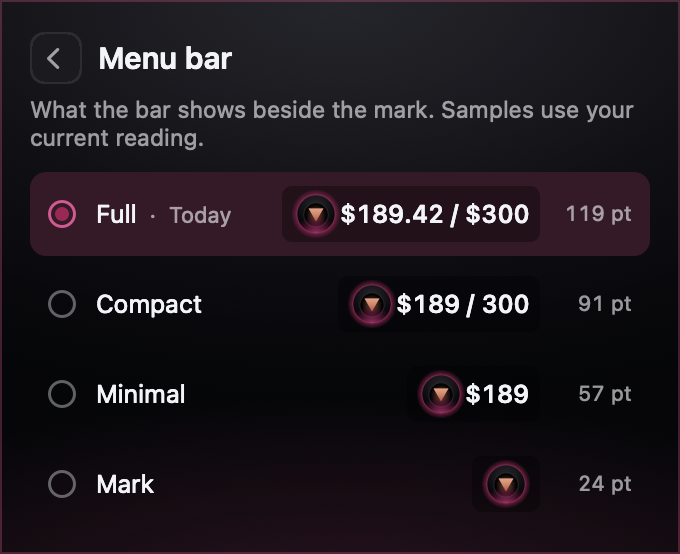
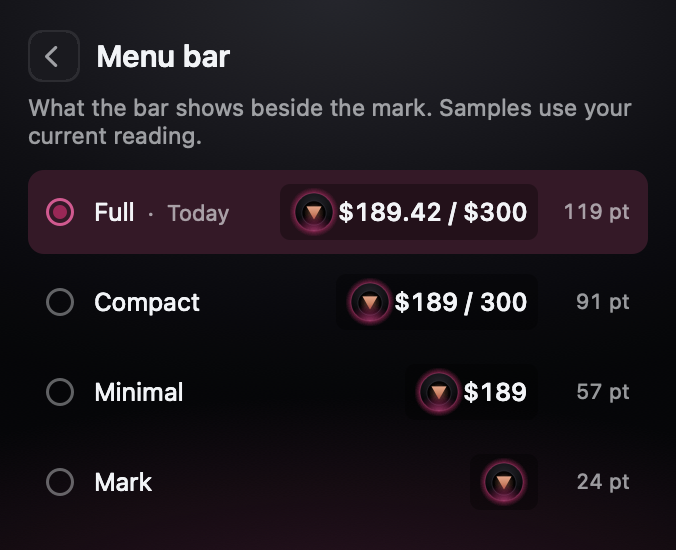
fix(page): trim the square border baked into the screenshots
The renders carried a square magenta rim that the page's rounded frame cut
at each corner, beside its own ring. Shaved 2 px from each side so only the
page's rounded ring remains.

diff --git a/index.html b/index.html
@@ -296,7 +296,7 @@
   <div class="shots">
     <div class="shot">
       <figure>
-        <img src="popover@2x.png?v=3.0.0" width="680" height="1092" loading="lazy"
+        <img src="popover@2x.png?v=3.0.0a" width="676" height="1088" loading="lazy"
              alt="The panel on a subscription: an organisation picker, then Session 54%,
                   Weekly 28% and Weekly Fable 30%, each with a meter and a reset time,
                   then the Sessions list at API value.">
@@ -307,7 +307,7 @@
     </div>
     <div class="shot">
       <figure>
-        <img src="ledger@2x.png?v=3.0.0" width="680" height="1440" loading="lazy"
+        <img src="ledger@2x.png?v=3.0.0a" width="676" height="1436" loading="lazy"
              alt="The panel on a spend limit: $189.42 of $300, $110.58 left this cycle,
                   63% used, a tape of the five most recent charges, and the Sessions list.">
         <figcaption><b>On a spend limit.</b> What you have run up this cycle, what
@@ -324,7 +324,7 @@
   <div class="sessions">
     <div class="shot">
       <figure>
-        <img src="sessions@2x.png?v=3.0.0" width="680" height="1212" loading="lazy"
+        <img src="sessions@2x.png?v=3.0.0a" width="676" height="1208" loading="lazy"
              alt="The Sessions list with Desktop off, sorted by cost: two terminal sessions,
                   two headless runs, a CLI total, and the part of the bill no session explains.">
         <figcaption><b>Desktop off, sorted by cost.</b> The total follows the
@@ -351,7 +351,7 @@
   <div class="sessions">
     <div class="shot">
       <figure>
-        <img src="menubar@2x.png?v=3.0.0" width="680" height="554" loading="lazy"
+        <img src="menubar@2x.png?v=3.0.0a" width="676" height="550" loading="lazy"
              alt="The Menu bar settings screen: Full $189.42 / $300 (today's look, 113 pt),
                   Compact $189 / 300 (85 pt), Minimal $189 (51 pt) and Mark, the mark alone (16 pt).">
         <figcaption><b>Four styles, measured.</b> Each row shows your own reading in
@@ -431,7 +431,7 @@
      already knows your plan and limits. It never asks for, stores or sends a login.</p>
   <div class="shot" style="max-width:340px;margin:0 auto 22px">
     <figure>
-      <img src="connect@2x.png?v=3.0.0" width="680" height="714" loading="lazy"
+      <img src="connect@2x.png?v=3.0.0a" width="676" height="710" loading="lazy"
            alt="The Connect screen: Norn runs your claude to ask for usage, found two
                 accounts, never reads, stores or sends a login, and never talks to claude.ai.">
     </figure>
